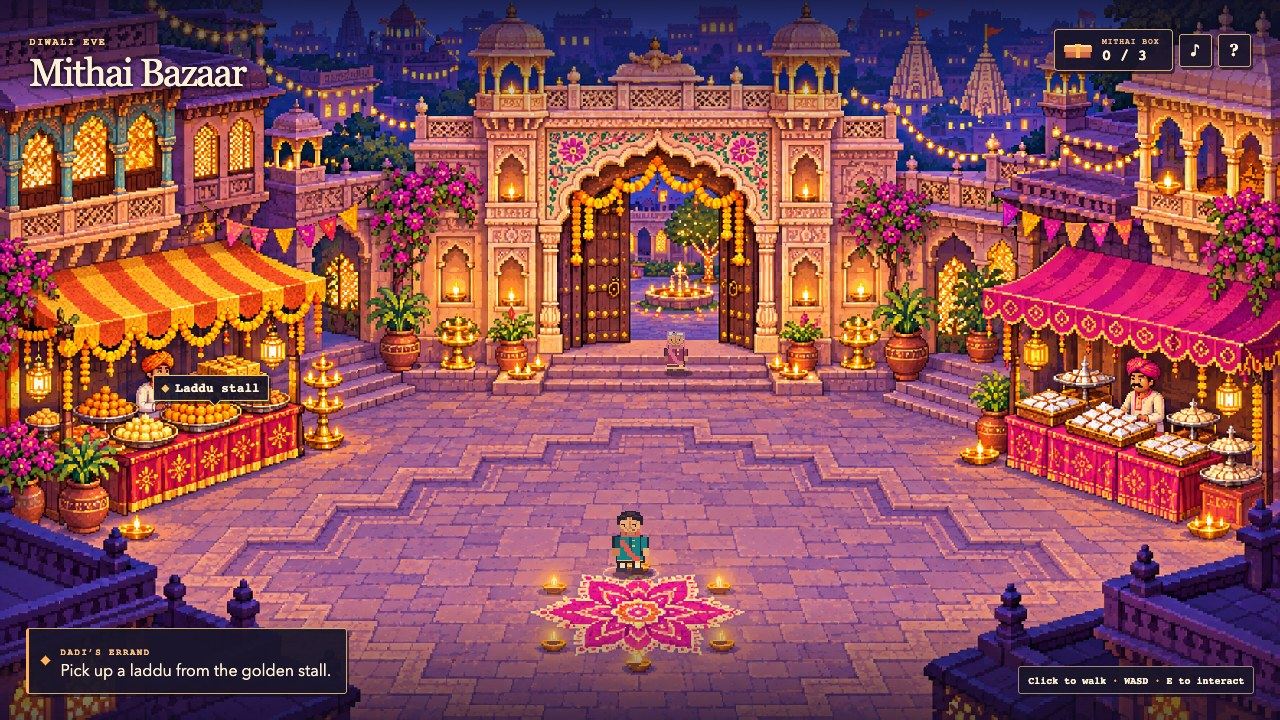
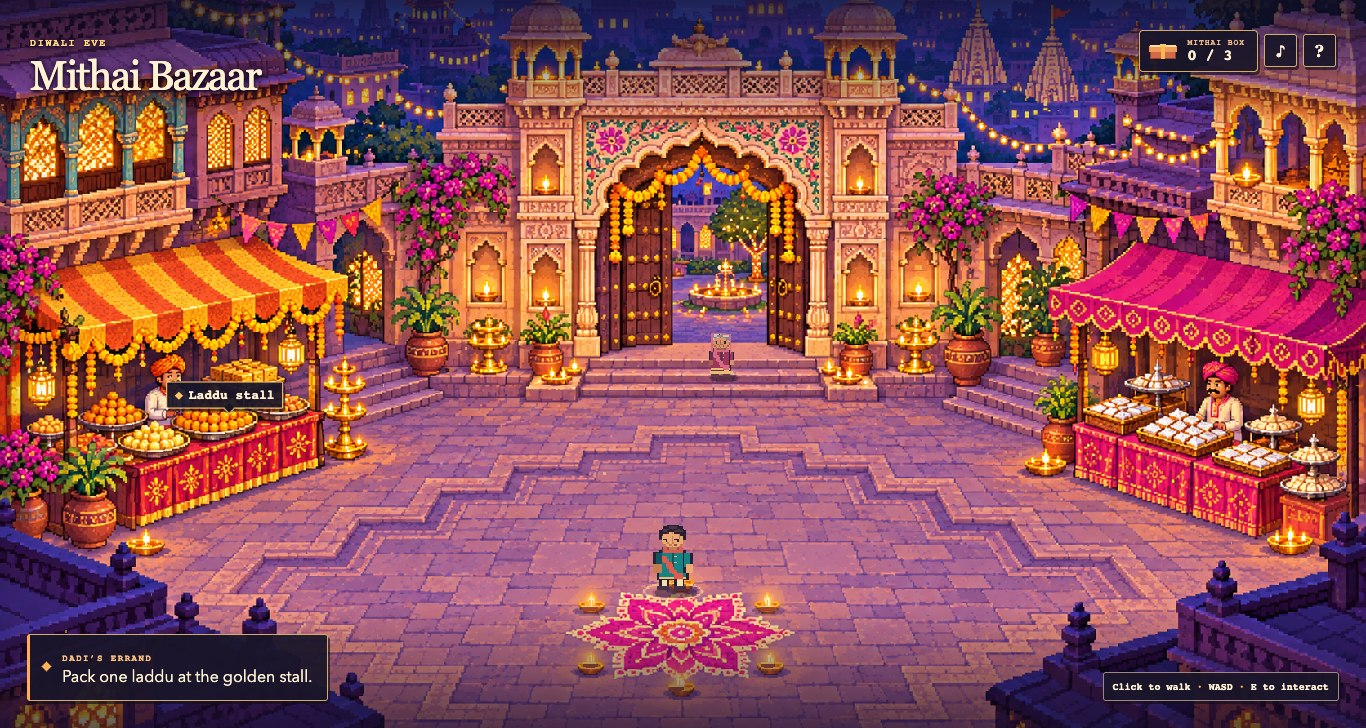
Pack mithai by hand and light the rows of lamps in Ayodhya

diff --git a/diwali-arcade/bazaar/bazaar.js b/diwali-arcade/bazaar/bazaar.js
@@ -9,12 +9,16 @@
   const locations = [
     {x:192,y:363,mx:158,my:301,label:'Laddu stall'},
     {x:763,y:362,mx:829,my:303,label:'Katli stall'},
-    {x:471,y:284,mx:477,my:263,label:'Meet Dadi'},
-    {x:376,y:442,mx:376,my:422,label:'Follow the light'},
-    {x:532,y:337,mx:532,my:319,label:'Next lamp'},
-    {x:483,y:209,mx:483,my:188,label:'City gate'},
+    {x:471,y:284,mx:477,my:263,label:'Deliver the gift'},
+    {x:376,y:442,mx:376,my:422,label:'Riverside wicks'},
+    {x:532,y:337,mx:532,my:319,label:'Courtyard wicks'},
+    {x:483,y:209,mx:483,my:188,label:'Gateway wicks'},
   ];
-  const tasks = ['Pick up a laddu from the golden stall.','Choose two kaju katli at the pink stall.','Take the mithai box to Dadi at the gate.','Walk with Sita and Lakshmana to the first lamp.','Follow the next lamp toward the city gate.','Bring Rama home through the gate.'];
+  const tasks = ['Pack one laddu at the golden stall.','Pack two kaju katli from the pink stall.','Carry the gift box to Dadi at the gate.','As Rama, carry a flame to the riverside wicks.','Light the courtyard for Sita and Lakshmana.','Pass your flame to the gateway lamps.'];
+  const counter = byId('counter');
+  const slots = [null,null,null];
+  let carried = null, ghost = null, pointerOrigin = null, giftAt = 0, flameHold = false, flameProgress = 0;
+  let lightingNear = false, litTimes = [];
   const art = {
     child: {
       front:['      HHHHHH      ','    HHHhhhhHHH    ','   HhhhKhHHhhHH   ','  HHhhHHHHhhhhHH  ','  HHHHhFfFHHHHHH  ','  HhFFFFFFFFfHHH  ','  HFFFFFfFFFfFHH  ','  hFHKFFfFHKFFhH  ','   FFKFFfFFKFFf   ','   fFFfFffFFFFf   ','    fFFfFFSFFf    ','     fFFfFFFf     ','      SffffS      '],
@@ -61,7 +65,6 @@
     r(1,17,24,2,'#8e6370');r(3,19,20,1,'#61465a');r(2,16,22,2,'#deb784');
     if(kind==='laddu'){r(5,9,15,7,'#ae5728');r(7,6,11,11,'#e58a28');r(9,5,7,12,'#ffb644');r(8,8,3,2,'#ffde80');r(15,10,3,2,'#de872b');r(10,13,2,2,'#c87025');r(14,6,2,2,'#84a14e')}
     if(kind==='katli'){for(let i=0;i<6;i++){r(12-i*2,4+i,i*4+2,1,'#fff1d8');r(2+i*2,10+i,22-i*4,1,'#c6bfd0');r(2+i*2,12+i,22-i*4,1,'#debc86')}r(9,8,5,1,'#b9b5c9');r(14,7,3,1,'#c8c5d6')}
-    if(kind==='jalebi'){[[5,5,12,3],[3,7,4,8],[5,14,15,3],[18,7,3,8],[9,8,9,3],[8,10,3,4],[11,12,5,2]].forEach(v=>r(...v,'#fa9439'));r(6,6,9,1,'#ffd174')}
   }
   sweetIcon(byId('box-icon').getContext('2d'),'box');
   function update(){
@@ -77,6 +80,8 @@
   }
   function reset(){
     step=0;packed=0;finish=false;pos={x:473,y:431};target=null;autoUse=false;walking=false;facing='front';walkTime=0;lastTap=null;
+    slots.fill(null);dropHeld();counter.hidden=true;giftAt=0;flameHold=false;flameProgress=0;lightingNear=false;litTimes=[];
+    marker.classList.remove('charging');markerStep=-1;
     byId('scenery').src='market.png';byId('scenery').alt='Lanterns light two sweet stalls around a paved Diwali market.';update();scene.focus({preventScroll:true});
   }
   function tone(freq,duration=.14){
@@ -84,40 +89,92 @@
     try{audio??=new AudioContext();audio.resume();const osc=audio.createOscillator(),gain=audio.createGain();osc.type='sine';osc.frequency.value=freq;gain.gain.setValueAtTime(.0001,audio.currentTime);gain.gain.exponentialRampToValueAtTime(.10,audio.currentTime+.012);gain.gain.exponentialRampToValueAtTime(.0001,audio.currentTime+duration);osc.connect(gain).connect(audio.destination);osc.start();osc.stop(audio.currentTime+duration+.01)}catch{}
   }
   function close(){panel.close();keys.clear();scene.focus({preventScroll:true})}
-  function show(tag,title,body,actions=[],choices=[]){
+  function show(tag,title,body,actions){
     target=null;autoUse=false;keys.clear();walking=false;
     byId('dialog-tag').textContent=tag;byId('dialog-title').textContent=title;byId('dialog-body').textContent=body;
-    byId('feedback').textContent='';const row=byId('actions'),cards=byId('choices');row.replaceChildren();cards.replaceChildren();
-    choices.forEach(([name,kind,act])=>{const b=document.createElement('button'),c=document.createElement('canvas');b.type='button';c.width=26;c.height=22;sweetIcon(c.getContext('2d'),kind);b.append(c,document.createTextNode(name));b.onclick=act;cards.append(b)});
-    actions.forEach(([name,act],i)=>{const b=document.createElement('button');b.type='button';b.textContent=name;if(i||choices.length)b.className='secondary';b.onclick=act;row.append(b)});
+    const row=byId('actions');row.replaceChildren();
+    actions.forEach(([name,act],i)=>{const b=document.createElement('button');b.type='button';b.textContent=name;if(i)b.className='secondary';b.onclick=act;row.append(b)});
     if(!panel.open)panel.showModal();
   }
-  function shop(){
-    const first=step===0;
-    const options=[['Laddu','laddu'],['Jalebi','jalebi'],['Kaju katli','katli']];
-    const select=kind=>{
-      if(kind!==(first?'laddu':'katli')){byId('feedback').textContent=first?'Look for the round, golden sweet made of little boondi pearls.':'Look for the silver-topped cashew diamonds.';tone(196);return}
-      packed++;tone(packed===2?523:659);update();
-      if(!first&&packed===2){byId('feedback').textContent='One diamond packed. Choose a second for our neighbour.';return}
-      step++;update();close();
-    };
-    show('MITHAI COUNTER',first?'One for Dadi':'Two to share',first?'“Dadi always picks the round golden one, made from tiny boondi pearls.” Choose her laddu.':'“One for our box and one for next door.” Pick the silver-topped cashew diamonds.',[['Leave the stall',close]],options.map(([name,kind])=>[name,kind,()=>select(kind)]));
+  function sweetCanvas(kind){
+    const c=document.createElement('canvas');c.width=26;c.height=22;sweetIcon(c.getContext('2d'),kind);c.setAttribute('aria-hidden','true');return c;
   }
+  function drawCounter(){
+    const first=step===0, kind=first?'laddu':'katli';
+    byId('stall-label').textContent=first?'GOLDEN STALL':'PINK STALL';
+    byId('counter-title').textContent=first?'Pack one laddu':'Pack two kaju katli';
+    const tray=byId('tray-art').getContext('2d');tray.clearRect(0,0,76,52);
+    tray.fillStyle='#5c3742';tray.fillRect(3,34,70,12);tray.fillStyle='#d09356';tray.fillRect(4,31,68,13);tray.fillStyle='#fbd18a';tray.fillRect(4,30,68,10);
+    const pastry=sweetCanvas(kind);
+    [[8,14],[26,7],[45,12],[18,21],[36,22]].forEach(([x,y],i)=>{if(carried&&i===4)return;tray.drawImage(pastry,0,0,26,17,x,y,26,17)});
+    const box=byId('gift-box');box.replaceChildren();
+    slots.forEach((item,i)=>{
+      const slot=document.createElement('button');slot.type='button';slot.className='compartment';slot.dataset.slot=i;
+      slot.setAttribute('aria-label',item?'Filled space '+(i+1):'Empty space '+(i+1));
+      if(item)slot.append(sweetCanvas(item));else if(carried)slot.classList.add('aim');
+      slot.onclick=()=>placeSweet(i);box.append(slot);
+    });
+    byId('packing-hint').textContent=carried?'Place it in an empty space, or press Space.':'Drag a sweet into the box. Space lifts and places.';
+  }
+  function liftSweet(){
+    if(carried)return;
+    carried=step===0?'laddu':'katli';tone(440,.10);drawCounter();
+  }
+  function dropHeld(){ghost?.remove();ghost=null;pointerOrigin=null;carried=null}
+  function leaveCounter(){dropHeld();counter.hidden=true;marker.hidden=false;keys.clear();scene.focus({preventScroll:true})}
+  function placeSweet(slot){
+    if(!carried||slot<0||slots[slot])return;
+    slots[slot]=carried;dropHeld();packed++;tone(494+packed*70);update();drawCounter();
+    if(packed===1||packed===3){step++;update();leaveCounter()}
+  }
+  function shop(){
+    target=null;autoUse=false;walking=false;keys.clear();counter.hidden=false;marker.hidden=true;
+    drawCounter();byId('tray').focus({preventScroll:true});
+  }
+  byId('leave').onclick=leaveCounter;
+  byId('tray').addEventListener('pointerdown',e=>{
+    e.preventDefault();liftSweet();pointerOrigin={x:e.clientX,y:e.clientY};
+    ghost=sweetCanvas(carried);ghost.className='carried-sweet';document.body.append(ghost);
+    ghost.style.left=e.clientX+'px';ghost.style.top=e.clientY+'px';byId('tray').setPointerCapture(e.pointerId);
+  });
+  byId('tray').addEventListener('pointermove',e=>{if(ghost){ghost.style.left=e.clientX+'px';ghost.style.top=e.clientY+'px'}});
+  byId('tray').addEventListener('pointerup',e=>{
+    if(!pointerOrigin)return;
+    const slot=document.elementFromPoint(e.clientX,e.clientY)?.closest('[data-slot]');
+    ghost?.remove();ghost=null;pointerOrigin=null;
+    if(slot)placeSweet(Number(slot.dataset.slot));
+  });
+  byId('tray').addEventListener('pointercancel',()=>{dropHeld();drawCounter()});
+  byId('tray').onclick=e=>{if(e.detail===0&&!counter.hidden)liftSweet()};
   function startStory(){
-    close();step=3;pos={x:480,y:497};facing='back';target=null;
+    giftAt=0;step=3;pos={x:480,y:497};facing='back';target=null;
     const image=byId('scenery');image.src='palace.png';image.alt='A procession of glowing diyas leads to the golden gates of Ayodhya.';update();tone(392,.5);
   }
   function interact(){
-    if(finish||panel.open)return;
+    if(finish||panel.open||!counter.hidden||giftAt)return;
     const point=locations[step];
     if(Math.hypot(point.x-pos.x,point.y-pos.y)>31){walkTo(point,true);return}
     target=null;autoUse=false;
     if(step<2){shop();return}
-    if(step===2){show('DADI · AT THE GATE','An old welcome','“We take mithai next door so everyone has a share in Diwali. When I was little, my dadi told me how Ayodhya lit rows of diyas to welcome Rama, Sita and Lakshmana home after fourteen years away. Come, walk it with me.”',[['Enter the story',startStory],['Stay a moment',close]]);return}
+    if(step===2){
+      giftAt=performance.now();keys.clear();walking=false;marker.hidden=true;tone(659,.4);
+      byId('objective').textContent='Dadi takes the box to share with the neighbours.';return;
+    }
+    byId('objective').textContent='Hold Space or the wick label to pass Rama’s flame.';
+  }
+  function ignite(dt,now){
+    if(step<3||finish)return;
+    const point=locations[step],near=Math.hypot(point.x-pos.x,point.y-pos.y)<32;
+    if(near!==lightingNear){lightingNear=near;byId('landmark-name').textContent=near?'Hold to light':point.label;marker.classList.toggle('charging',near);byId('objective').textContent=near?'Hold Space or the wick label to pass Rama’s flame.':tasks[step]}
+    if(near&&flameHold&&!walking){flameProgress=Math.min(1,flameProgress+dt/1.05)}
+    else flameProgress=Math.max(0,flameProgress-dt*1.2);
+    marker.style.setProperty('--lit',Math.round(flameProgress*100)+'%');
+    if(flameProgress<1)return;
+    litTimes[step-3]=now;flameProgress=0;flameHold=false;lightingNear=false;marker.classList.remove('charging');
     tone([392,523,659][step-3],.48);
     if(step<5){step++;update();return}
     finish=true;update();
-    show('DIWALI · THE HOMECOMING','Home, at last','You walked as Rama along the lamp-lit road. Back at the bazaar, Dadi tucks the last kaju katli into your neighbour’s box. This year, you carry her welcome to the next doorstep.',[['Play again',()=>{close();reset()}]]);
+    window.setTimeout(()=>{if(!finish)return;show('DIWALI · THE HOMECOMING','Ayodhya glows','Three rows of diyas welcome Rama, Sita and Lakshmana home after fourteen years away.',[['Play again',()=>{close();reset()}]])},900);
   }
   function inside(p,poly){
     let hit=false;for(let i=0,j=poly.length-1;i<poly.length;j=i++){const a=poly[i],b=poly[j];if((a[1]>p.y)!==(b[1]>p.y)&&p.x<(b[0]-a[0])*(p.y-a[1])/(b[1]-a[1])+a[0])hit=!hit}return hit;
@@ -135,20 +192,29 @@
     pos=next;
   }
   scene.addEventListener('pointerdown',e=>{
-    if(finish||panel.open)return;
+    if(finish||panel.open||!counter.hidden||giftAt)return;
     const r=scene.getBoundingClientRect(),p={x:(e.clientX-r.left)/r.width*W,y:(e.clientY-r.top)/r.height*H},point=locations[step];
     scene.focus({preventScroll:true});
     if(Math.hypot(p.x-point.x,p.y-point.y)<40||Math.hypot(p.x-point.mx,p.y-point.my)<56){interact();return}
     walkTo(p,false);
   });
+  marker.addEventListener('pointerdown',e=>{if(step>=3){flameHold=true;marker.setPointerCapture(e.pointerId)}});
+  window.addEventListener('pointerup',()=>{flameHold=false});
+  window.addEventListener('pointercancel',()=>{flameHold=false});
   marker.addEventListener('click',()=>{scene.focus({preventScroll:true});interact()});
   byId('sound').onclick=()=>{soundOn=!soundOn;byId('sound').setAttribute('aria-pressed',String(soundOn));byId('sound').setAttribute('aria-label',soundOn?'Mute sound':'Enable sound');tone(523);scene.focus({preventScroll:true})};
-  byId('help').onclick=()=>show('CONTROLS','Around the bazaar','Walk with the arrow keys or WASD. Tap a place to walk there, or tap a gold label to walk up and interact. Press E to visit your current destination.',[['Back to the story',close],['Start again',()=>{close();reset()}]]);
+  byId('help').onclick=()=>{if(!counter.hidden||giftAt||finish)return;show('CONTROLS','Around the bazaar','Walk with the arrow keys or WASD. Tap a place to walk there, or tap a gold label to walk up and interact. Press E to approach a stall. Drag sweets into the box, or use Space to lift and place them. Beside a lamp, hold Space to light its wick.',[['Back to the story',close],['Start again',()=>{close();reset()}]])};
   panel.addEventListener('cancel',e=>{e.preventDefault();if(!finish)close()});
-  window.addEventListener('blur',()=>keys.clear());
-  document.addEventListener('keydown',e=>{if(panel.open||e.metaKey||e.ctrlKey||e.altKey)return;const k=e.key.toLowerCase();if(['a','s','d','w','arrowup','arrowdown','arrowleft','arrowright'].includes(k)){e.preventDefault();keys.add(k);target=null;autoUse=false}
+  window.addEventListener('blur',()=>{keys.clear();flameHold=false});
+  document.addEventListener('keydown',e=>{if(panel.open||e.metaKey||e.ctrlKey||e.altKey)return;const k=e.key.toLowerCase();
+    if(!counter.hidden){
+      if(k==='escape'){e.preventDefault();leaveCounter();return}
+      if(k===' '){e.preventDefault();if(!e.repeat){if(carried)placeSweet(slots.indexOf(null));else liftSweet()}}return;
+    }
+    if(k===' '&&step>=3){e.preventDefault();if(!e.repeat)flameHold=true;return}
+    if(['a','s','d','w','arrowup','arrowdown','arrowleft','arrowright'].includes(k)){e.preventDefault();keys.add(k);target=null;autoUse=false}
     if(k==='e'&&!e.repeat){e.preventDefault();interact()}});
-  document.addEventListener('keyup',e=>keys.delete(e.key.toLowerCase()));
+  document.addEventListener('keyup',e=>{keys.delete(e.key.toLowerCase());if(e.key===' ')flameHold=false});
   function character(role,x,y,direction,stride,player=false){
     const scale=step<3?.91+(y-270)/360:.57+(y-190)/335;
     const sh=43*scale,sw=28*scale;
@@ -173,17 +239,32 @@
       [[415,442],[477,426],[540,442],[540,482],[476,498],[415,482]].forEach(([x,y])=>lamp(x,y,t));
       character('dadi',507,280,'front',0);
     }else{
-      for(let i=3;i<=step;i++){const l=locations[i];lamp(l.x,l.y,t)}
+      for(let i=3;i<6;i++){
+        const l=locations[i],litAt=litTimes[i-3],spread=litAt===undefined?0:Math.min(1,(now-litAt)/680);
+        for(let n=0;n<7;n++){
+          const x=l.x+10+n*4, y=l.y-2-n*2;
+          ctx.fillStyle='#623b42';ctx.fillRect(x-3,y-1,7,2);ctx.fillStyle='#eaaa74';ctx.fillRect(x-4,y-2,8,1);
+          if(litAt!==undefined && n/7<=spread)lamp(x,y,t);
+        }
+        if(step===i&&flameProgress>0){ctx.fillStyle='#fc9749';ctx.fillRect(l.x+7,l.y-4,Math.ceil(4*flameProgress),-Math.ceil(7*flameProgress))}
+      }
       const sx=20*(.5+(pos.y-190)/340),sy=7*(.5+(pos.y-190)/340);
       character('sita',pos.x-sx,pos.y-sy,facing,walking?Math.floor(walkTime*8)%2:0);
       character('lakshmana',pos.x+sx,pos.y-sy,facing,walking?1-Math.floor(walkTime*8)%2:0);
     }
     if(lastTap){const age=(now-lastTap.at)/650;if(age>=0&&age<1){ctx.strokeStyle='rgba(255,230,168,'+(1-age)+')';ctx.beginPath();ctx.ellipse(lastTap.x,lastTap.y,5+age*16,2+age*6,0,0,Math.PI*2);ctx.stroke()}}
     character(step<3?'child':'rama',pos.x,pos.y,facing,walking?Math.floor(walkTime*8)%2?1:-1:0,true);
+    if(step>=3)lamp(pos.x+7,pos.y-13,t);
+    if(packed>0&&step<3){
+      const f=giftAt?Math.min(1,(now-giftAt)/730):0;
+      const x=(pos.x+6)*(1-f)+505*f,y=(pos.y-12)*(1-f)+266*f;
+      ctx.drawImage(byId('box-icon'),Math.round(x-6),Math.round(y-6),14,12);
+    }
   }
   function frame(now){
     const dt=Math.min((now-(last||now))/1000,.04);last=now;
-    if(!panel.open&&!finish){
+    if(giftAt&&now-giftAt>1800)startStory();
+    if(!panel.open&&!finish&&counter.hidden&&!giftAt){
       const dx=Number(keys.has('d')||keys.has('arrowright'))-Number(keys.has('a')||keys.has('arrowleft'));
       const dy=Number(keys.has('s')||keys.has('arrowdown'))-Number(keys.has('w')||keys.has('arrowup'));
       if(dx||dy)move(dx*200,dy*200,dt);
@@ -191,6 +272,7 @@
         const before=pos;move(target.x-pos.x,target.y-pos.y,dt);
         if(Math.hypot(target.x-pos.x,target.y-pos.y)<2||(before.x===pos.x&&before.y===pos.y&&dt>0)){const act=autoUse;target=null;autoUse=false;walking=false;if(act)interact()}
       }else walking=false;
+      ignite(dt,now);
     }
     draw(now);requestAnimationFrame(frame);
   }

diff --git a/diwali-arcade/bazaar/bazaar.css b/diwali-arcade/bazaar/bazaar.css
@@ -1,4 +1,5 @@
 *{box-sizing:border-box}html,body{margin:0;height:100%;width:100%;overflow:hidden;background:#100e20;color:#fff1d4;font-family:"Avenir Next",Avenir,system-ui,sans-serif}button{font:inherit;cursor:pointer;touch-action:manipulation}button:focus-visible,canvas:focus-visible{outline:3px solid #ffe6a3;outline-offset:3px}#app{position:relative;isolation:isolate;width:100%;height:100%;overflow:hidden;background:radial-gradient(ellipse at 50% 60%,#493040,#171124 77%)}#world{position:absolute;left:50%;top:50%;width:min(100vw,188vh);aspect-ratio:16/9;transform:translate(-50%,-50%);overflow:hidden;background:#271c38}#scenery,#scene{display:block;position:absolute;inset:0;width:100%;height:100%;image-rendering:pixelated}#scene{touch-action:none;outline:0!important}#world::after{content:"";pointer-events:none;position:absolute;inset:0;box-shadow:inset 0 0 65px #160b312c}
-header,footer{position:absolute;left:0;right:0;display:flex;align-items:flex-start;justify-content:space-between;pointer-events:none;z-index:3}header{top:0;padding:clamp(12px,2.3vw,30px);background:linear-gradient(#120d27c7,transparent);gap:8px}footer{bottom:0;align-items:flex-end;padding:clamp(12px,2vw,28px);background:linear-gradient(transparent,#120c27a8);gap:12px}.location{text-shadow:0 2px 3px #130720,1px 0 8px #130720}.location>span,.quest span,.eyebrow,.inventory small{font:700 10px/1.4 ui-monospace,"Courier New",monospace;letter-spacing:.17em}.location>span{color:#ffda86}h1,h2,p{margin:0}h1,h2{font-family:Georgia,"Times New Roman",serif;font-weight:500}h1{font-size:clamp(24px,3vw,45px);line-height:1.15;letter-spacing:-.045em}.gear{display:flex;align-items:center;gap:6px}.square,.inventory,.quest,#hint,.landmark{background:#191529ed;color:#fff1d4;border:1px solid #d5aa6e;box-shadow:2px 3px 0 #120d20aa}.square{width:33px;height:33px;pointer-events:auto;font-family:Georgia,serif;font-weight:bold;font-size:17px;border-radius:3px}.square[aria-pressed="true"]{color:#191529;background:#ffd18b}.inventory{display:flex;align-items:center;gap:9px;padding:6px 12px 6px 8px;border-radius:4px}.inventory canvas{width:30px;image-rendering:pixelated}.inventory small{display:block;font-size:8px;letter-spacing:.12em;color:#f0bc88}.inventory b{display:block;font:700 15px/1.1 ui-monospace,monospace}.quest{display:flex;gap:12px;padding:10px 15px 11px 13px;max-width:min(70vw,470px);border-left:3px solid #ffad59;border-radius:3px}.quest i,.eyebrow i{display:block;width:7px;height:7px;flex:none;transform:rotate(45deg);background:#ffb258;align-self:center}.quest span,.eyebrow{color:#ffc482}.quest p{font-size:clamp(11px,1.3vw,16px);line-height:1.35}.quest span{font-size:9px}#hint{font:600 10px/1.25 ui-monospace,monospace;padding:7px 9px;border-color:#a38683;border-radius:3px}#hint b{color:#ffb258}.landmark{position:absolute;z-index:2;transform:translate(-50%,-100%);display:flex;align-items:center;gap:6px;white-space:nowrap;border-radius:2px;border-color:#ffcf75;padding:5px 8px;font:700 clamp(9px,1vw,13px)/1.1 ui-monospace,monospace}.landmark:after{content:"";position:absolute;left:50%;bottom:-5px;width:7px;height:7px;background:#191529;transform:rotate(45deg);border-right:1px solid #ffcf75;border-bottom:1px solid #ffcf75}.landmark span:first-child{color:#ffc367}.landmark:hover,.square:hover{background:#483041}dialog{color:#fff1d4;background:#211a32;border:1px solid #e7b46d;width:min(410px,92vw);max-height:90vh;overflow:auto;box-shadow:0 0 0 3px #221829,0 0 0 4px #805e56,0 20px 80px #090512b8;padding:0}dialog::backdrop{background:#100d1c79}.panel-content{padding:clamp(20px,3vw,32px)}.eyebrow{display:flex;align-items:center;gap:9px;font-size:9px}h2{font-size:clamp(25px,3vw,36px);letter-spacing:-.035em;line-height:1.05;margin:10px 0 12px}#dialog-body{font-size:15px;line-height:1.5;color:#f3dfcb}#choices{display:flex;gap:7px;margin-top:16px}#choices:empty,#feedback:empty,#actions:empty{display:none}#choices button{display:grid;justify-items:center;align-content:center;gap:4px;min-width:0;flex:1;font-size:11px;padding:8px 2px;background:#38253b;border:1px solid #8e6e68;color:#ffe1bb}#choices canvas{width:48px;height:42px;image-rendering:pixelated}#feedback{margin-top:10px;color:#ffd393;font-size:13px}#actions{display:flex;gap:8px;margin-top:20px}#actions button{background:#ffd28b;color:#271a2d;border:1px solid #ffe4a9;padding:8px 14px;font-size:13px;font-weight:700}#actions button.secondary{color:#ffe0b2;border-color:#866b64;background:#32253e}
+header,footer{position:absolute;left:0;right:0;display:flex;align-items:flex-start;justify-content:space-between;pointer-events:none;z-index:3}header{top:0;padding:clamp(12px,2.3vw,30px);background:linear-gradient(#120d27c7,transparent);gap:8px}footer{bottom:0;align-items:flex-end;padding:clamp(12px,2vw,28px);background:linear-gradient(transparent,#120c27a8);gap:12px}.location{text-shadow:0 2px 3px #130720,1px 0 8px #130720}.location>span,.quest span,.eyebrow,.inventory small{font:700 10px/1.4 ui-monospace,"Courier New",monospace;letter-spacing:.17em}.location>span{color:#ffda86}h1,h2,p{margin:0}h1,h2{font-family:Georgia,"Times New Roman",serif;font-weight:500}h1{font-size:clamp(24px,3vw,45px);line-height:1.15;letter-spacing:-.045em}.gear{display:flex;align-items:center;gap:6px}.square,.inventory,.quest,#hint,.landmark{background:#191529ed;color:#fff1d4;border:1px solid #d5aa6e;box-shadow:2px 3px 0 #120d20aa}.square{width:33px;height:33px;pointer-events:auto;font-family:Georgia,serif;font-weight:bold;font-size:17px;border-radius:3px}.square[aria-pressed="true"]{color:#191529;background:#ffd18b}.inventory{display:flex;align-items:center;gap:9px;padding:6px 12px 6px 8px;border-radius:4px}.inventory canvas{width:30px;image-rendering:pixelated}.inventory small{display:block;font-size:8px;letter-spacing:.12em;color:#f0bc88}.inventory b{display:block;font:700 15px/1.1 ui-monospace,monospace}.quest{display:flex;gap:12px;padding:10px 15px 11px 13px;max-width:min(70vw,470px);border-left:3px solid #ffad59;border-radius:3px}.quest i,.eyebrow i{display:block;width:7px;height:7px;flex:none;transform:rotate(45deg);background:#ffb258;align-self:center}.quest span,.eyebrow{color:#ffc482}.quest p{font-size:clamp(11px,1.3vw,16px);line-height:1.35}.quest span{font-size:9px}#hint{font:600 10px/1.25 ui-monospace,monospace;padding:7px 9px;border-color:#a38683;border-radius:3px}#hint b{color:#ffb258}.landmark{position:absolute;z-index:2;transform:translate(-50%,-100%);display:flex;align-items:center;gap:6px;white-space:nowrap;border-radius:2px;border-color:#ffcf75;padding:5px 8px;font:700 clamp(9px,1vw,13px)/1.1 ui-monospace,monospace}.landmark:after{content:"";position:absolute;left:50%;bottom:-5px;width:7px;height:7px;background:#191529;transform:rotate(45deg);border-right:1px solid #ffcf75;border-bottom:1px solid #ffcf75}.landmark span:first-child{color:#ffc367}.landmark:hover,.square:hover{background:#483041}dialog{color:#fff1d4;background:#211a32;border:1px solid #e7b46d;width:min(410px,92vw);max-height:90vh;overflow:auto;box-shadow:0 0 0 3px #221829,0 0 0 4px #805e56,0 20px 80px #090512b8;padding:0}dialog::backdrop{background:#100d1c79}.panel-content{padding:clamp(20px,3vw,32px)}.eyebrow{display:flex;align-items:center;gap:9px;font-size:9px}h2{font-size:clamp(25px,3vw,36px);letter-spacing:-.035em;line-height:1.05;margin:10px 0 12px}#dialog-body{font-size:15px;line-height:1.5;color:#f3dfcb}#actions:empty{display:none}#actions{display:flex;gap:8px;margin-top:20px}#actions button{background:#ffd28b;color:#271a2d;border:1px solid #ffe4a9;padding:8px 14px;font-size:13px;font-weight:700}#actions button.secondary{color:#ffe0b2;border-color:#866b64;background:#32253e}
 @media(max-aspect-ratio:1/1){#world{width:100vw}header{top:max(0px,calc(50% - 32vw - 76px));background:none}footer{bottom:max(0px,calc(50% - 32vw - 85px));align-items:flex-start;flex-direction:column;background:none}.quest{max-width:100%}#hint{font-size:9px}.location>span{font-size:9px}.square{width:29px;height:29px}.inventory{padding:5px;gap:3px}.inventory canvas{width:21px}}
-@media(max-height:480px){header,footer{padding:8px 12px}.location>span,.quest span{font-size:8px}h1{font-size:24px}.quest{padding:5px 10px}.square{width:27px;height:27px}.inventory{padding:3px 7px}.inventory small{font-size:7px}.inventory b{font-size:11px}.panel-content{padding:15px 20px}#dialog-body{font-size:13px}#choices{margin-top:8px}}
+@media(max-height:480px){header,footer{padding:8px 12px}.location>span,.quest span{font-size:8px}h1{font-size:24px}.quest{padding:5px 10px}.square{width:27px;height:27px}.inventory{padding:3px 7px}.inventory small{font-size:7px}.inventory b{font-size:11px}.panel-content{padding:15px 20px}#dialog-body{font-size:13px}}
+[hidden]{display:none!important}#counter{position:absolute;z-index:4;left:50%;top:53%;transform:translate(-50%,-50%);width:min(460px,90vw);color:#fff0ce;background:#281a30;border:2px solid #efc47d;box-shadow:0 0 0 3px #38202c,0 7px 0 3px #100e20b8,0 16px 56px #170c26b8}.counter-top{padding:14px 18px 12px;display:flex;align-items:center;justify-content:space-between;border-bottom:1px solid #a97459}.counter-top small,.ledges>span{font:700 9px/1.3 ui-monospace,monospace;letter-spacing:.12em;color:#ffd599}.counter-top h2{font-size:26px;margin:3px 0 0}.counter-top button{color:#f8dcab;background:#413044;border:1px solid #ae836c;font-size:18px;width:28px;height:28px;line-height:19px}.worktop{padding:26px 15px 20px;display:flex;align-items:flex-end;justify-content:space-evenly;gap:16px;background:repeating-linear-gradient(1deg,transparent 0 13px,#ffc8890d 14px 15px,transparent 17px 31px),linear-gradient(#965238,#683a37);border-bottom:3px solid #55303a}.ledges{display:flex;align-items:center;flex-direction:column;gap:16px}.ledges>span{text-align:center;color:#ffe5bd;letter-spacing:.04em;text-shadow:1px 1px #58303a}#tray{padding:0;background:transparent;border:0;display:block;touch-action:none;cursor:grab}#tray:active{cursor:grabbing}#tray canvas{width:100px;height:70px;image-rendering:pixelated}#gift-box{display:flex;gap:5px;padding:8px;border:3px solid #ffc97d;outline:2px solid #632939;box-shadow:inset 0 0 0 2px #9d4537,0 7px 0 #a1463d,0 9px 0 #5b2d39;background:#d37350}.compartment{border:1px solid #8c4c3f;background:#efbe8b;box-shadow:inset 1px 3px 0 #be896d;width:49px;height:48px;padding:0;position:relative}.compartment:empty:after{content:"✧";color:#b77d63;font-size:22px}.compartment canvas{width:42px;height:36px;image-rendering:pixelated}.compartment.aim{outline:2px dashed #fff4b7;outline-offset:1px;background:#ffd59e}#packing-hint{padding:10px 17px 13px;font-size:12px;line-height:1.45;color:#ffe5be}.carried-sweet{position:fixed;width:48px;height:41px;image-rendering:pixelated;pointer-events:none;transform:translate(-50%,-60%);z-index:8;filter:drop-shadow(2px 4px 0 #3321368c)}#world .landmark.charging{background:linear-gradient(to right,#845828 var(--lit,0%),#191529 var(--lit,0%));touch-action:none}

diff --git a/diwali-arcade/bazaar/index.html b/diwali-arcade/bazaar/index.html
@@ -9,5 +9,11 @@
 <header><div class="location"><span id="chapter">DIWALI EVE</span><h1 id="place">Mithai Bazaar</h1></div>
 <div class="gear"><div class="inventory" aria-live="polite"><canvas id="box-icon" width="26" height="22" aria-hidden="true"></canvas><div><small id="count-label">MITHAI BOX</small><b id="count">0 / 3</b></div></div><button class="square" id="sound" aria-label="Enable sound" title="Enable sound">♪</button><button class="square" id="help" aria-label="Controls" title="Controls">?</button></div></header>
 <footer><div class="quest"><i></i><div><span id="speaker">DADI’S ERRAND</span><p id="objective" aria-live="polite">Pick up a laddu from the golden stall.</p></div></div><div id="hint">Click to walk <b>·</b> WASD <b>·</b> E to interact</div></footer>
-<dialog id="panel"><div class="panel-content"><div class="eyebrow"><i></i><span id="dialog-tag"></span></div><h2 id="dialog-title"></h2><p id="dialog-body"></p><div id="choices"></div><p id="feedback" aria-live="polite"></p><div id="actions"></div></div></dialog>
+<section id="counter" hidden aria-label="Sweet packing counter">
+  <div class="counter-top"><div><small id="stall-label">GOLDEN STALL</small><h2 id="counter-title">Pack the laddu</h2></div><button type="button" id="leave" aria-label="Leave counter">×</button></div>
+  <div class="worktop"><div class="ledges"><button id="tray" type="button" aria-label="Pick up a sweet"><canvas id="tray-art" width="76" height="52"></canvas></button><span>Sweet tray</span></div>
+  <div class="ledges"><div id="gift-box" role="group" aria-label="Gift box"></div><span>Dadi’s mithai box</span></div></div>
+  <p id="packing-hint" aria-live="polite">Drag a sweet into an empty space. Space lifts and places.</p>
+</section>
+<dialog id="panel"><div class="panel-content"><div class="eyebrow"><i></i><span id="dialog-tag"></span></div><h2 id="dialog-title"></h2><p id="dialog-body"></p><div id="actions"></div></div></dialog>
 </main><script src="bazaar.js"></script></body></html>
